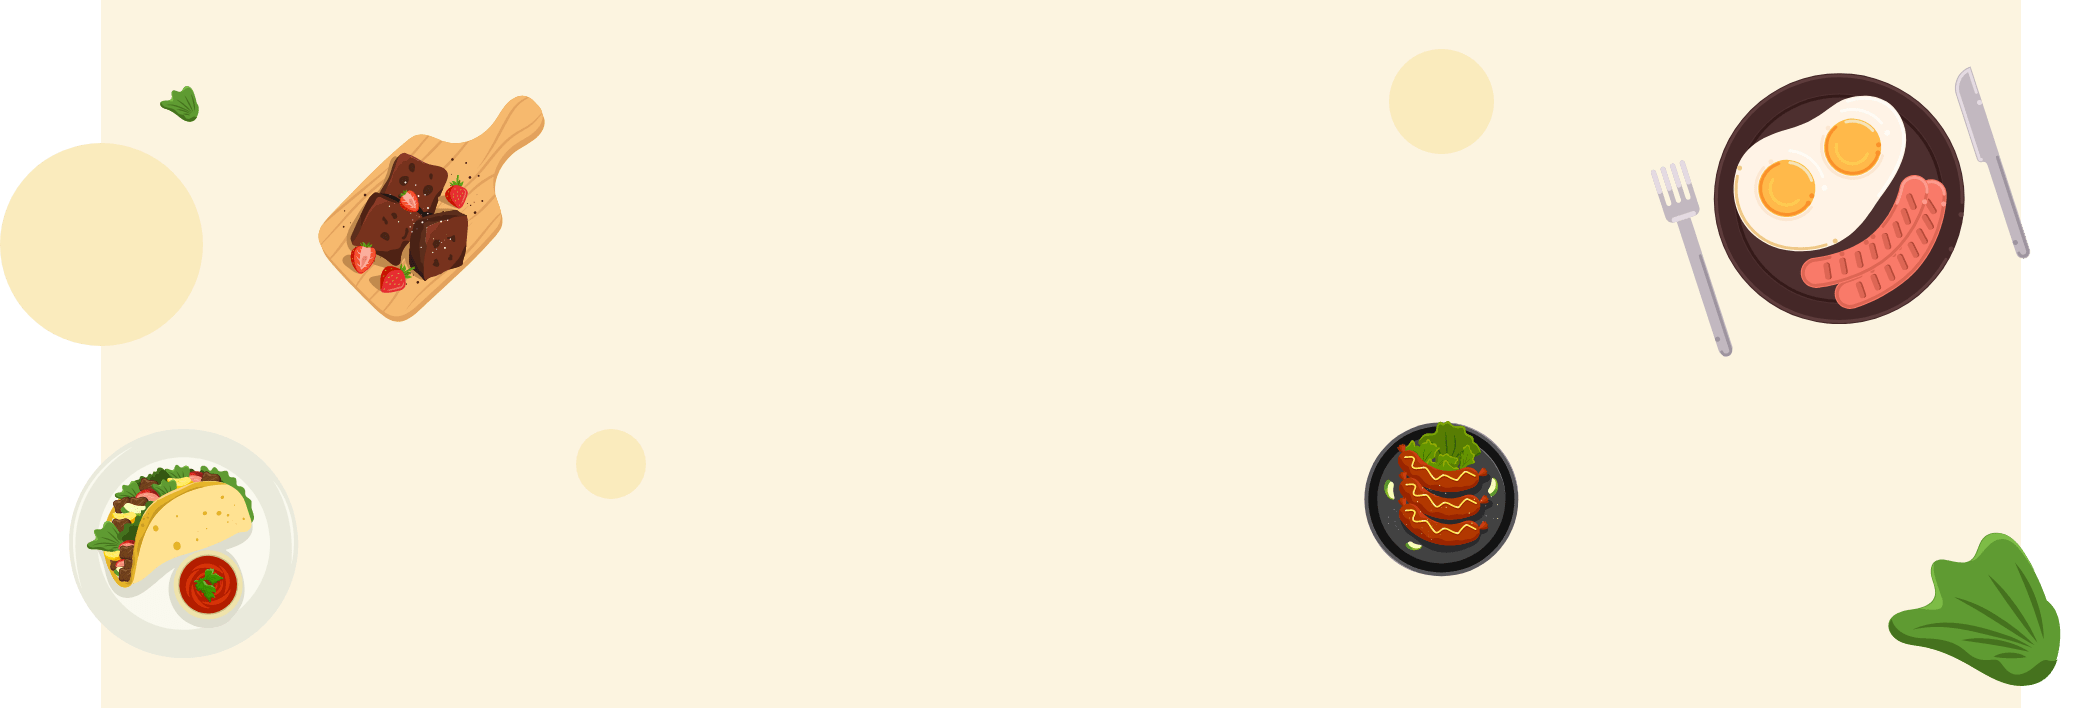
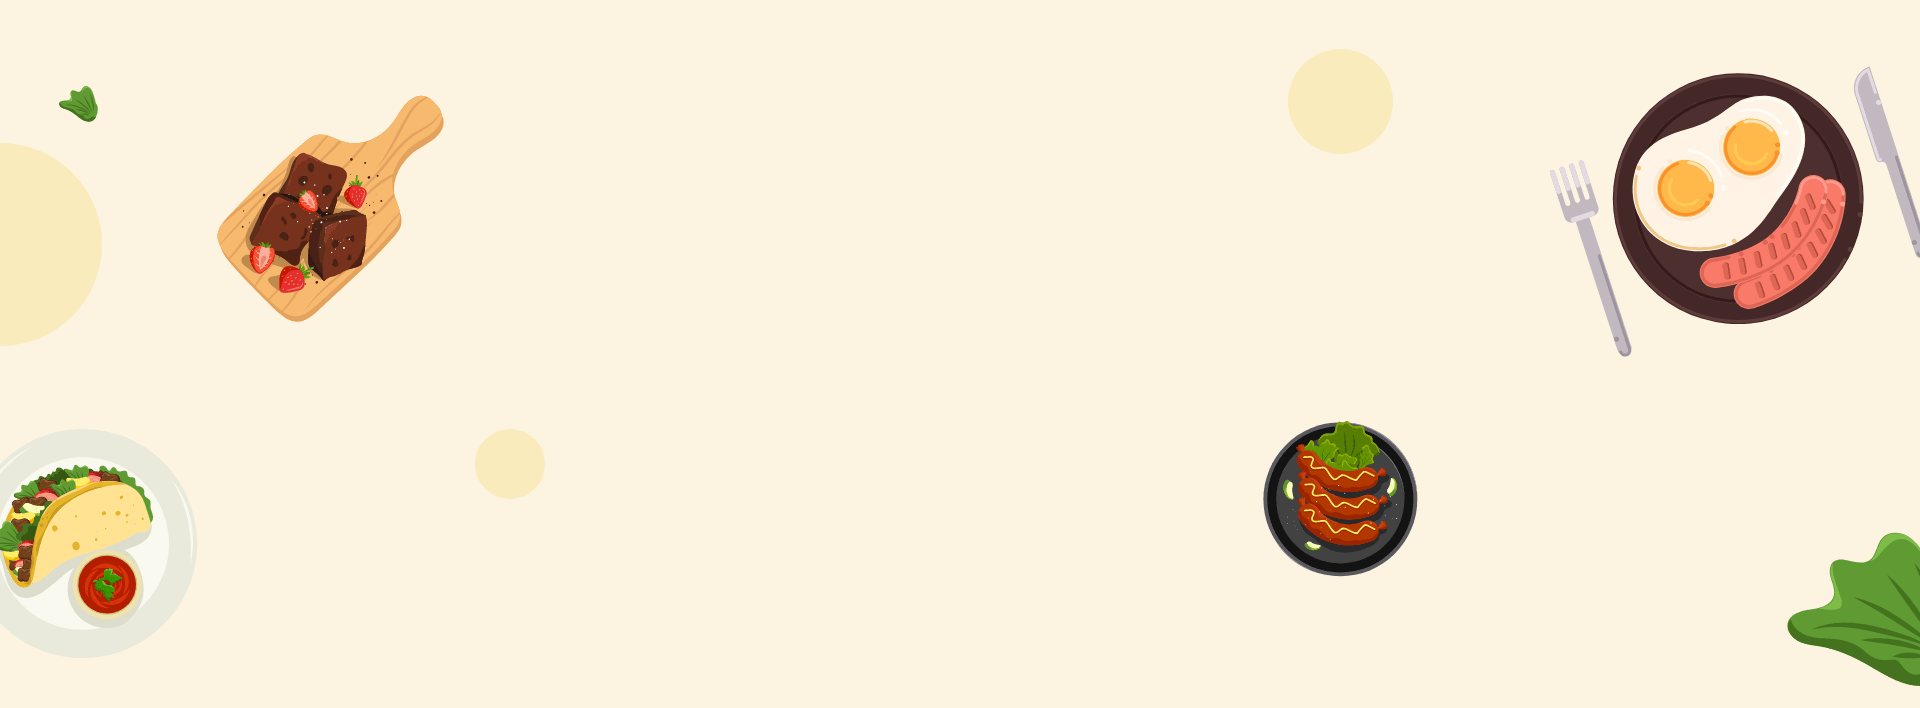
update navbar nad header section

diff --git a/src/components/Header/Header.js b/src/components/Header/Header.js
@@ -14,15 +14,17 @@ const Header = () => {
            <Navbar></Navbar>
            <div>
                <div className="">
-                   <section className=" banner d-flex justify-content-center align-items-center">
+                   <section className=" banner d-flex justify-content-center align-items-center text-center">
                         <div>
                             <h1>Best food waiting for you belly</h1>
-                            <div className="col-md-6">
-                                <form onSubmit={handleSubmit(onSubmit)}>
-                                    <input name="search" ref={register({ required: true })} placeholder="Search food items" className="form-control"/>
-                                    <input type="submit" className="btn btn-style px-4" />
-                                    {errors.search && <span className="d-block">This field is required</span>}
-                                </form>
+                            <div className="col-6 col-md-6 my-4 mx-auto">
+                                <div className="search-box">
+                                    <form onSubmit={handleSubmit(onSubmit)}>
+                                        <input name="search" ref={register({ required: true })} placeholder="Search food items" className="form-control search-input"/>
+                                        <input type="submit" className="btn btn-style px-4 search-btn" />
+                                        {errors.search && <span className="d-block">This field is required</span>}
+                                    </form>
+                                </div>
                             </div>
                         </div>
                    </section>

diff --git a/src/components/Header/Header.css b/src/components/Header/Header.css
@@ -2,8 +2,21 @@
     background-image: url(../../images/bannerBackground-min.png);
     background-repeat: no-repeat;
     background-size: cover;
-    height: 75vh;
+    height: 60vh;
     background-position: 50%;
-    margin-left: 4rem;
-    margin-right: 4rem;
+}
+.search-box{
+    position: relative;
+    margin-left: -4rem;
+}
+.search-btn{
+    position: absolute;
+    top: 0;
+    right: -74px;
+    height: 100%;
+}
+.search-input{
+    border: 1px solid #fff !important;
+    border-radius: 20px;
+    padding: 8px 20px !important;
 }
